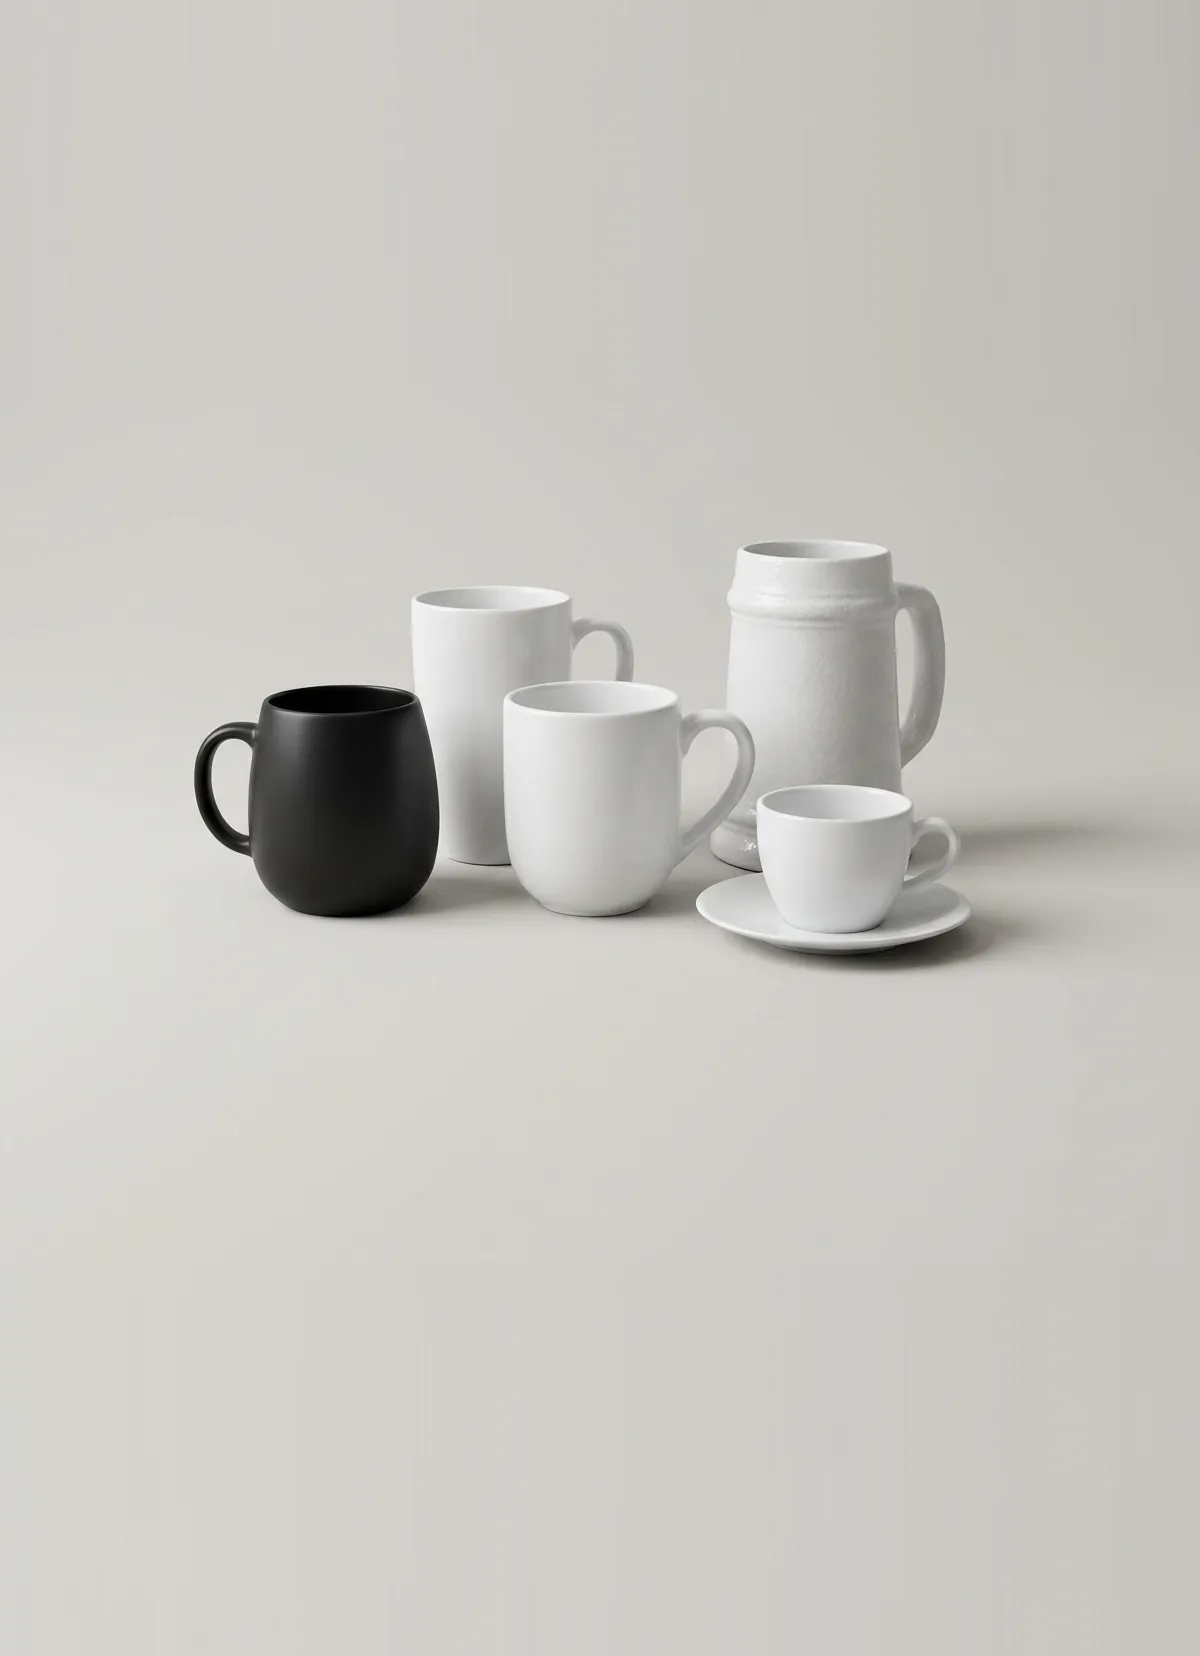
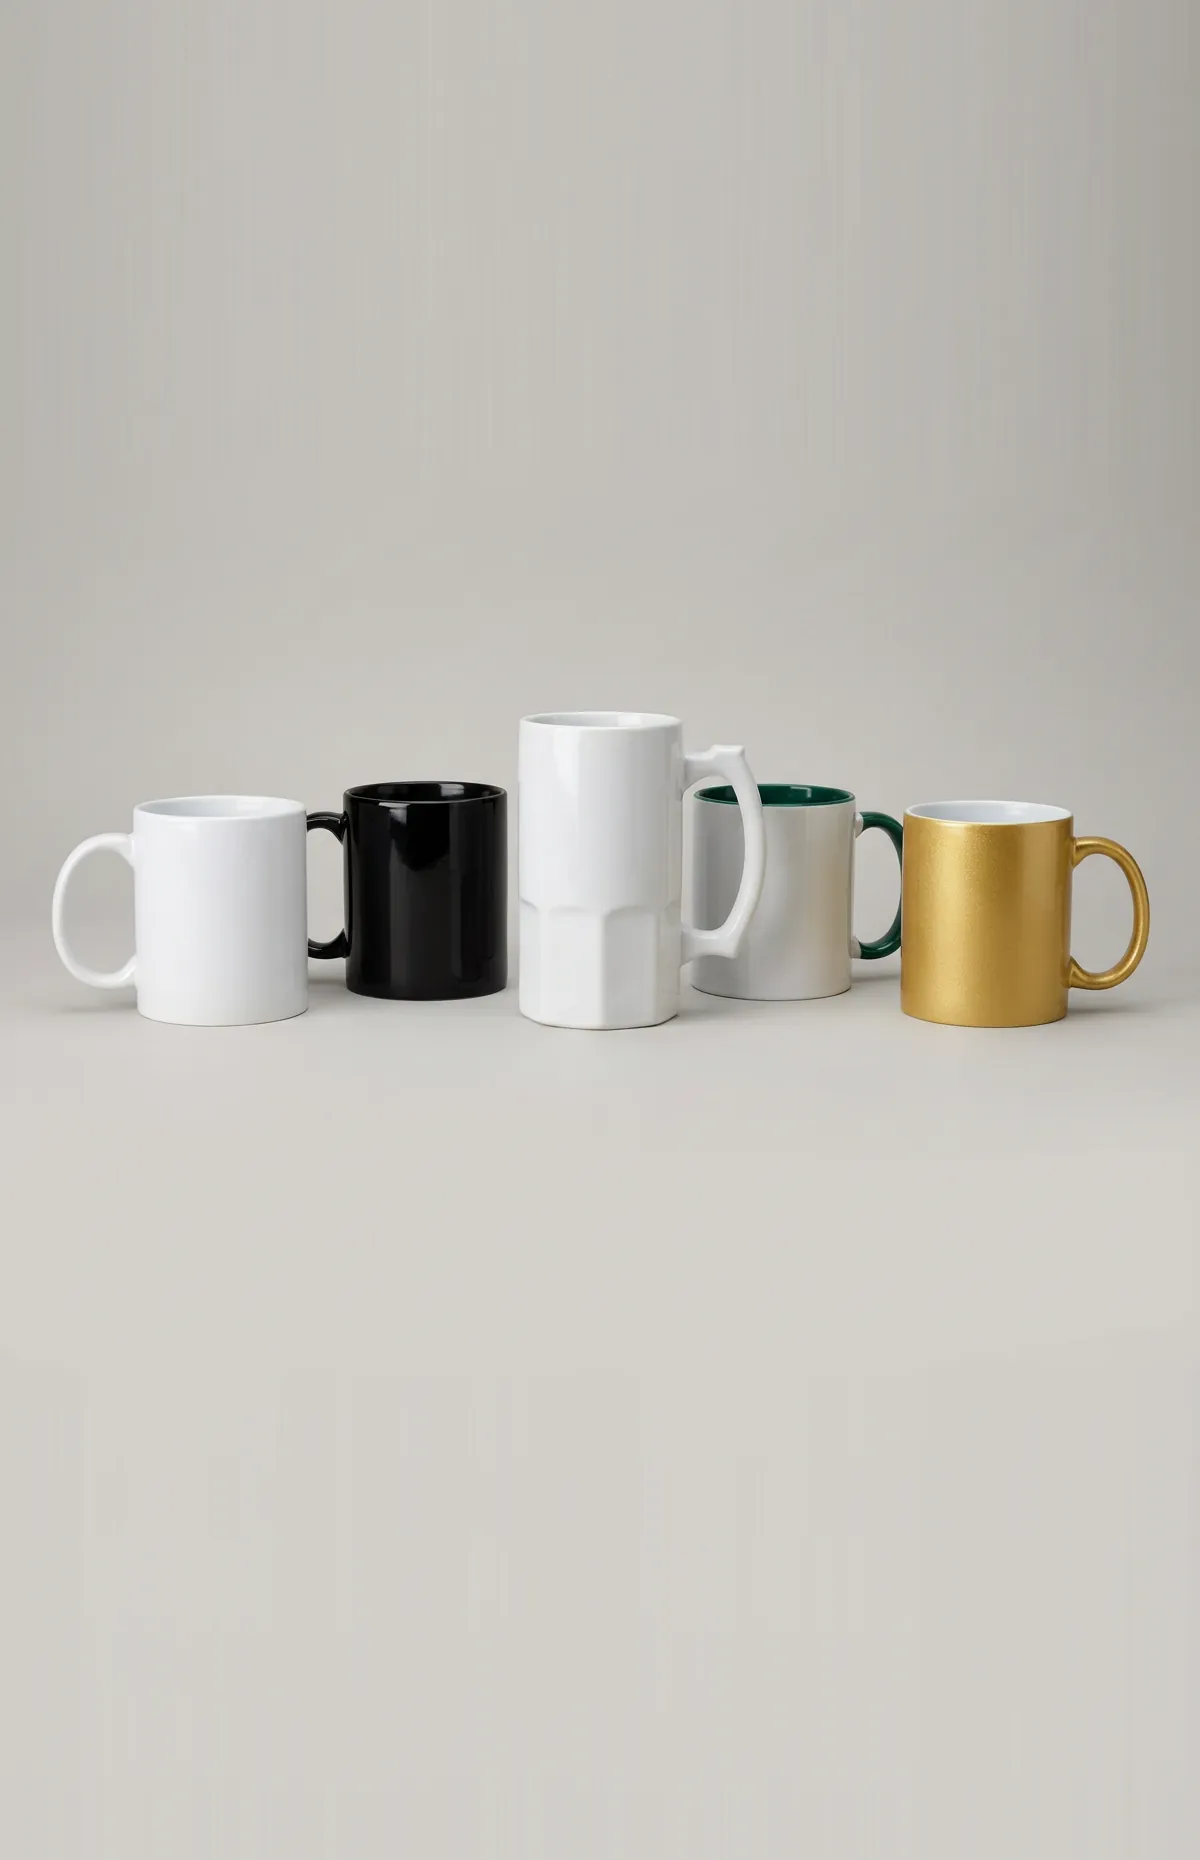
«Изделия и цены»: фото кружек — только те виды, на которых печатаем
Claude-Session: https://claude.ai/code/session_011aCLNDYZL8S7fGyPL1JrAX

Changed region(s): [[0.0, 0.0, 0.9867, 0.6159], [0.9867, 0.0616, 1.0, 0.0924]]

diff --git a/CLAUDE.md b/CLAUDE.md
@@ -139,7 +139,7 @@
 - Порядок блоков (владелец, 06.11.2026): первый экран → новогодняя полоса → Изделия и цены → Подарки к празднику → Наши работы → Популярное → Своя мастерская (только коллаж, заголовок и текст; цифры, 4 преимущества и строку «Оплата» владелец убрал 07.11.2026) → Отзывы → Компаниям (+ «Скачать КП (PDF)») → Как заказать → Вопросы → SEO-текст → Контакты. Блок «Условия» убран (оплата перенесена в «Своя мастерская»).
 - Новогодний блок (06.11.2026, по скиллу ui-ux-pro-max; владелец выбрал вариант «Ночь» из трёх): `src/components/NewYearBlock.astro` сразу под первым экраном. Тёмный фон со снегом, красный SVG-шар в наклоне с крупным круглым фото (проп `photo`, сейчас `public/img/ny/ball-photo.webp` — семья с малышом от владельца, кадр подобран так, что все три лица целиком в круге; фото внутри повёрнуто обратно, чтобы лица были ровными), текст на конверте (владелец, 06.11.2026, по скиллу ui-ux-pro-max: «средний элемент в виде конверта, сверху треугольник для открытия — кнопка на новогоднюю статью, снизу надпись»): весь конверт — ссылка на статью; конверт с пропорциями настоящего (C5 ≈ 1,42 : 1; на планшете 1,22, на телефоне 1,12), нарисован SVG: боковые и нижний клапаны, верхний клапан с мягким кончиком и тенью; конверт всегда закрыт, анимацию открывания владелец попросил убрать — на кончике клапана красная кнопка-сургуч «Идеи подарков к Новому году →» (при наведении темнеет, кольцо становится жёлтым); края конверта — полосы авиапочты; текст «Новый год уже близко!» / «Подарки с вашим фото и логотипом» на лицевой стороне. Шар крупнее (до 300 px) и висит на длинной нитке, которая начинается над верхней волной; элементы раздвинуты (больше промежутки колонок), Дед Мороз владельца (`public/img/ny/ded-moroz-*.webp`) с таймером дни/часы/минуты на табличке. Верх блока обрезан маской по той же волне, что внизу первого экрана (между ними ровная бордовая волнистая полоса 22px — `.nyb::before`, той же волной со сдвигом, по просьбе владельца вместо белой; бумагой поверх не рисовать — иначе срезается низ первого экрана). Показывается скриптом только 1 ноября – 31 декабря, честная срочность — без выдуманных дедлайнов. Кнопка ведёт на статью `/stati/novogodnie-podarki` (`link` в index.astro), ссылка — сам конверт. Новую палитру (тёмно-синий/бирюза/бордо/красный/розовый) владелец попробовал и отклонил («ужасно, возвращай») — сайт остаётся в цветах CMYK 2.0.
 - Главная, 07.11.2026: «Что чаще всего заказывают» — общий компонент `src/components/OfferBento.astro` (тот же бенто из фото, что «Готовые варианты» у футболок; цены из pricing.ts, кнопки «Заказать» и «Другой тираж →»); «Компаниям» — `src/components/home/HomeB2B.astro` (заголовок с маркером, 4 карточки с контурными номерами, полароиды работ на кнопках, без логотипов); SEO-текст «Печать на заказ в Калининграде» — `src/components/home/HomeSeo.astro` (4 карточки с номерами, тексты и ссылки прежние, на телефоне свёрнуты).
-- «Изделия и цены» (10.11.2026, владелец: «не нравится неон, спокойные тона, премиум»): 8 новых фото в `public/img/products/*-{640,1200}.webp` (tshirts, mugs, badges, business-cards, caps, calendar, stickers, pillow), сгенерированы Gemini 3 Pro Image через AITUNNEL (ключ — сетевой секрет среды для api.aitunnel.ru, Bearer; ~24 ₽ за картинку, неудачные 502-ответы тоже списываются — запросы слать по одному, баланс `GET /v1/aitunnel/balance`). Светло-серый фон, мягкий свет, без надписей; на значки и 3D-стикеры настоящий логотип из `docs/logo-png/` наложен вручную (нейросеть рисует логотипы неточно). Старые `img/showcase/*` не удалять — их используют калькулятор, статья, меню, «С этим заказывают».
+- «Изделия и цены» (10.11.2026, владелец: «не нравится неон, спокойные тона, премиум»): 8 новых фото в `public/img/products/*-{640,1200}.webp` (tshirts, mugs, badges, business-cards, caps, calendar, stickers, pillow), сгенерированы Gemini 3 Pro Image через AITUNNEL (ключ — сетевой секрет среды для api.aitunnel.ru, Bearer; ~24 ₽ за картинку, неудачные 502-ответы тоже списываются — запросы слать по одному, баланс `GET /v1/aitunnel/balance`). Светло-серый фон, мягкий свет, без надписей; на значки и 3D-стикеры настоящий логотип из `docs/logo-png/` наложен вручную (нейросеть рисует логотипы неточно). Кружки (владелец, 10.11.2026: «вот такие кружки, на которых я печатаю, не выдумывай других»): только 5 видов — белая прямая 330 мл, хамелеон (чёрная), пивная высокая с гранёным низом, белая с цветной ручкой и цветом внутри, золотая с блёстками. Режим «по образцам» (images/edits) на AITUNNEL отдаёт 502 и всё равно списывает деньги — не использовать. Старые `img/showcase/*` не удалять — их используют калькулятор, статья, меню, «С этим заказывают».
 - Точки отката: `backup/before-home-tidestyle` (до этой переделки), `backup/before-home-bands`.
 
 ## Статьи (06.11.2026)
